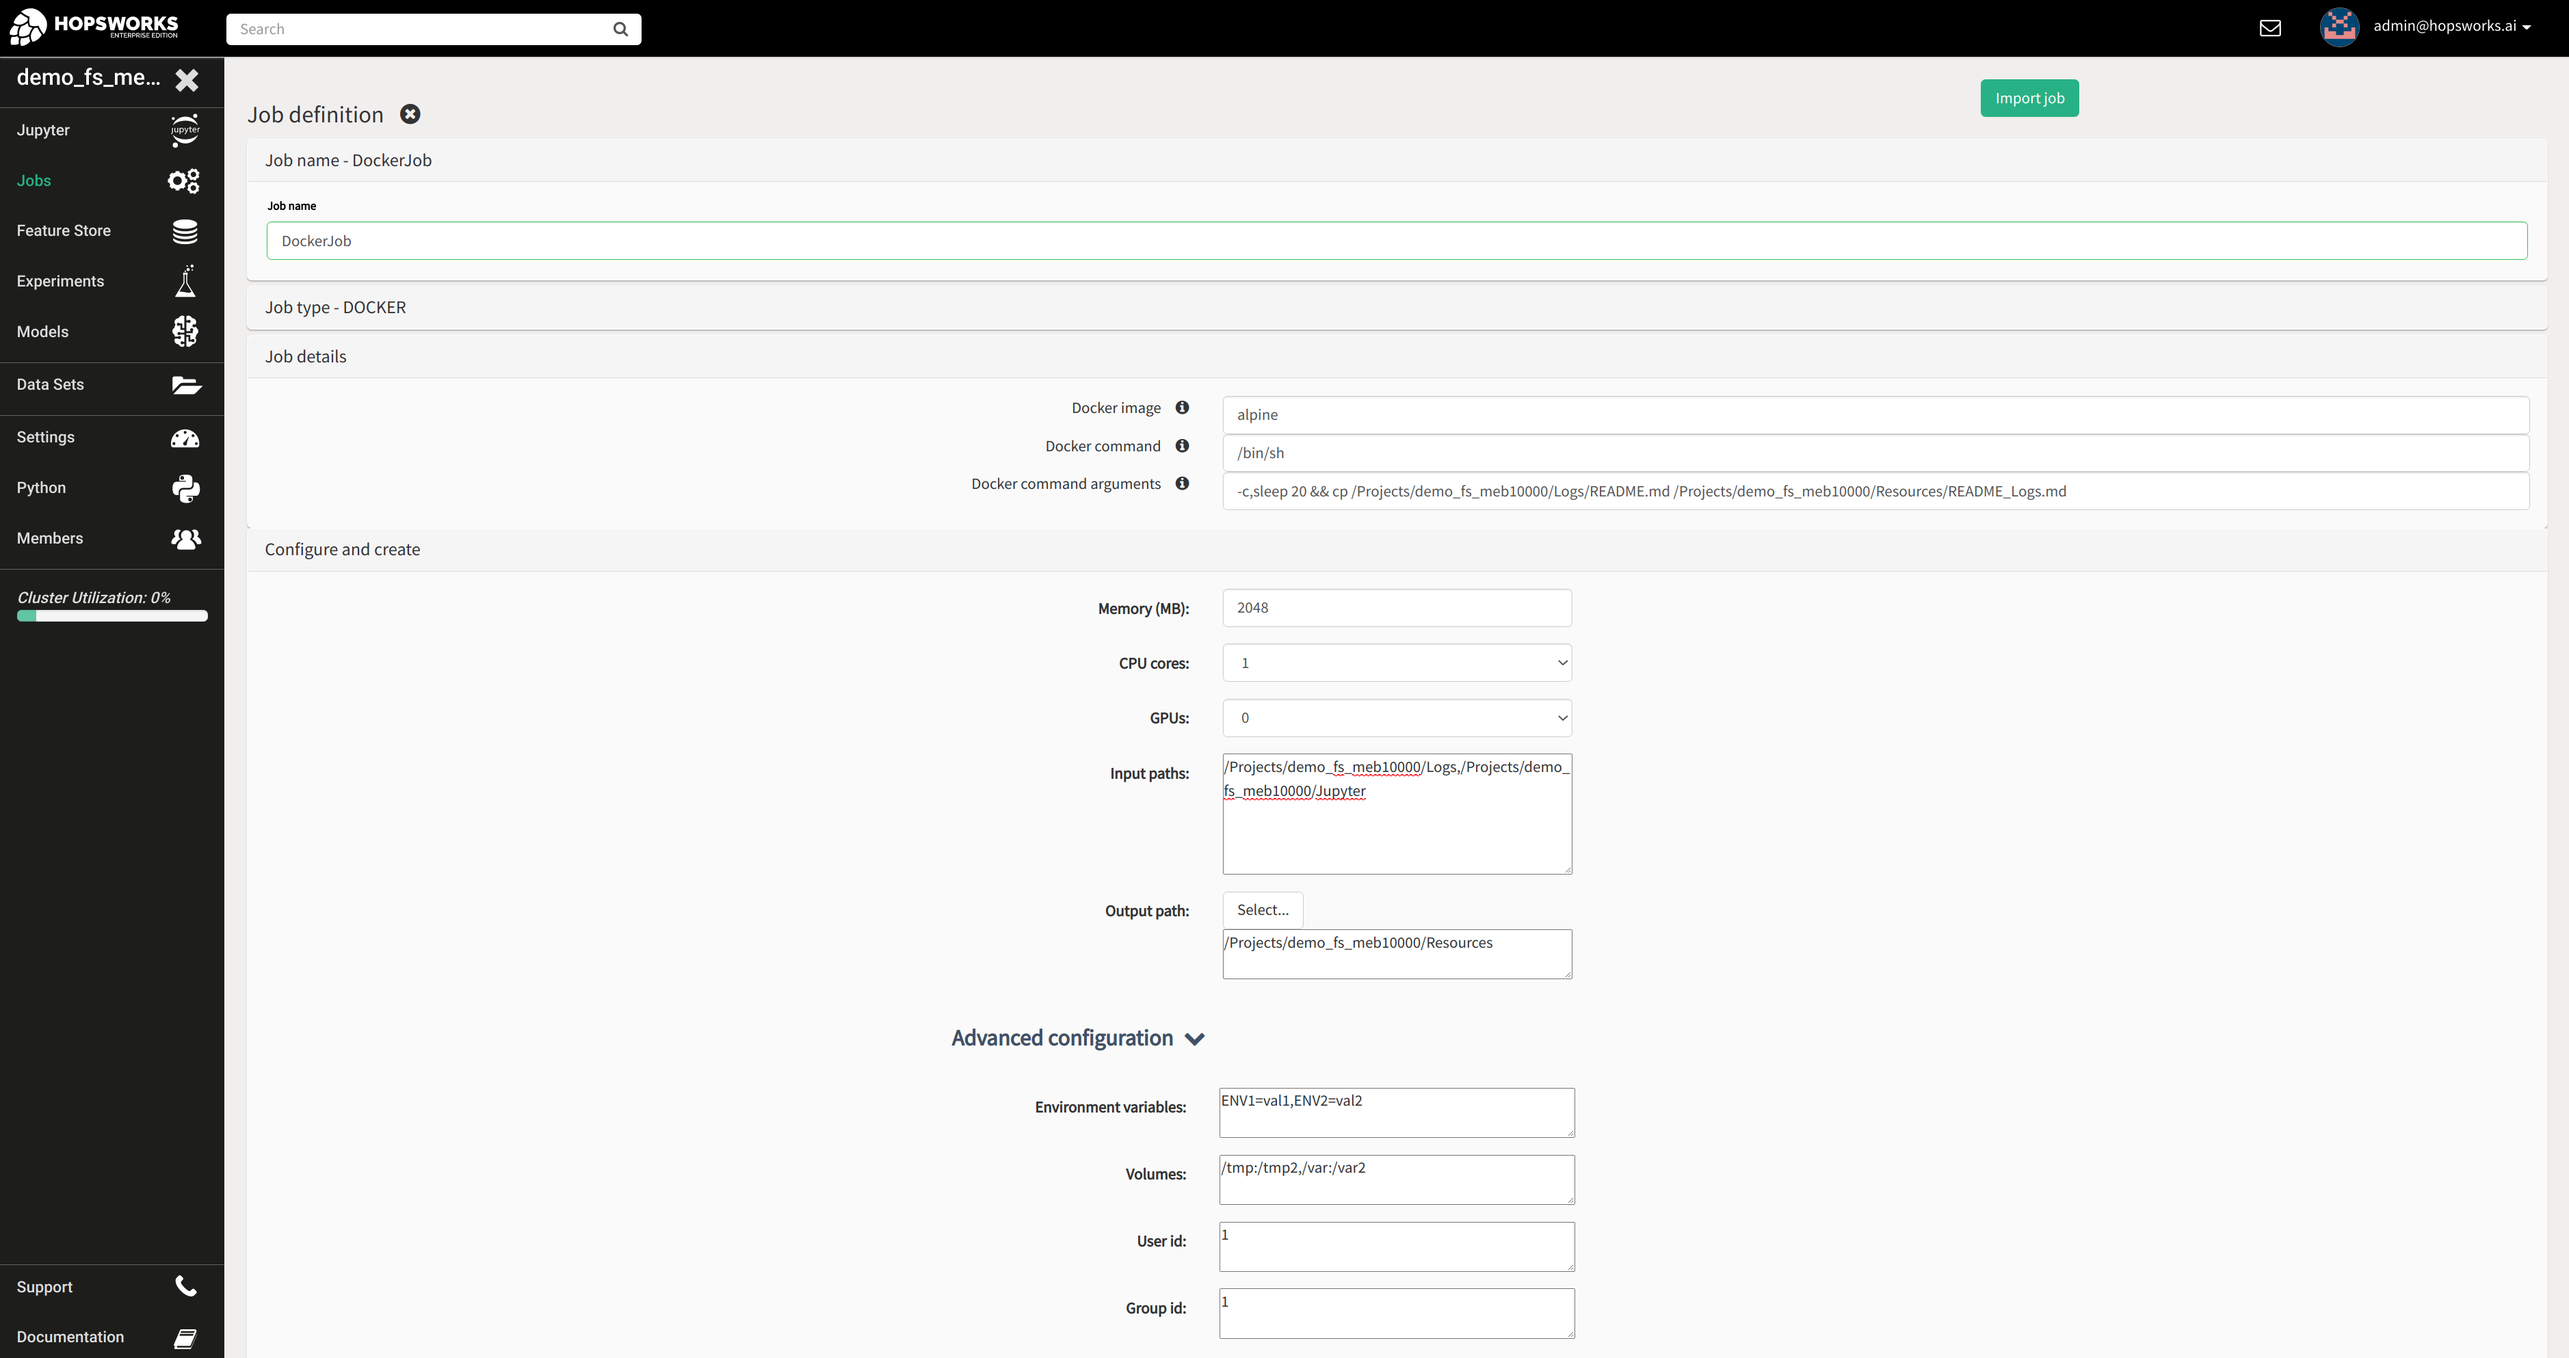
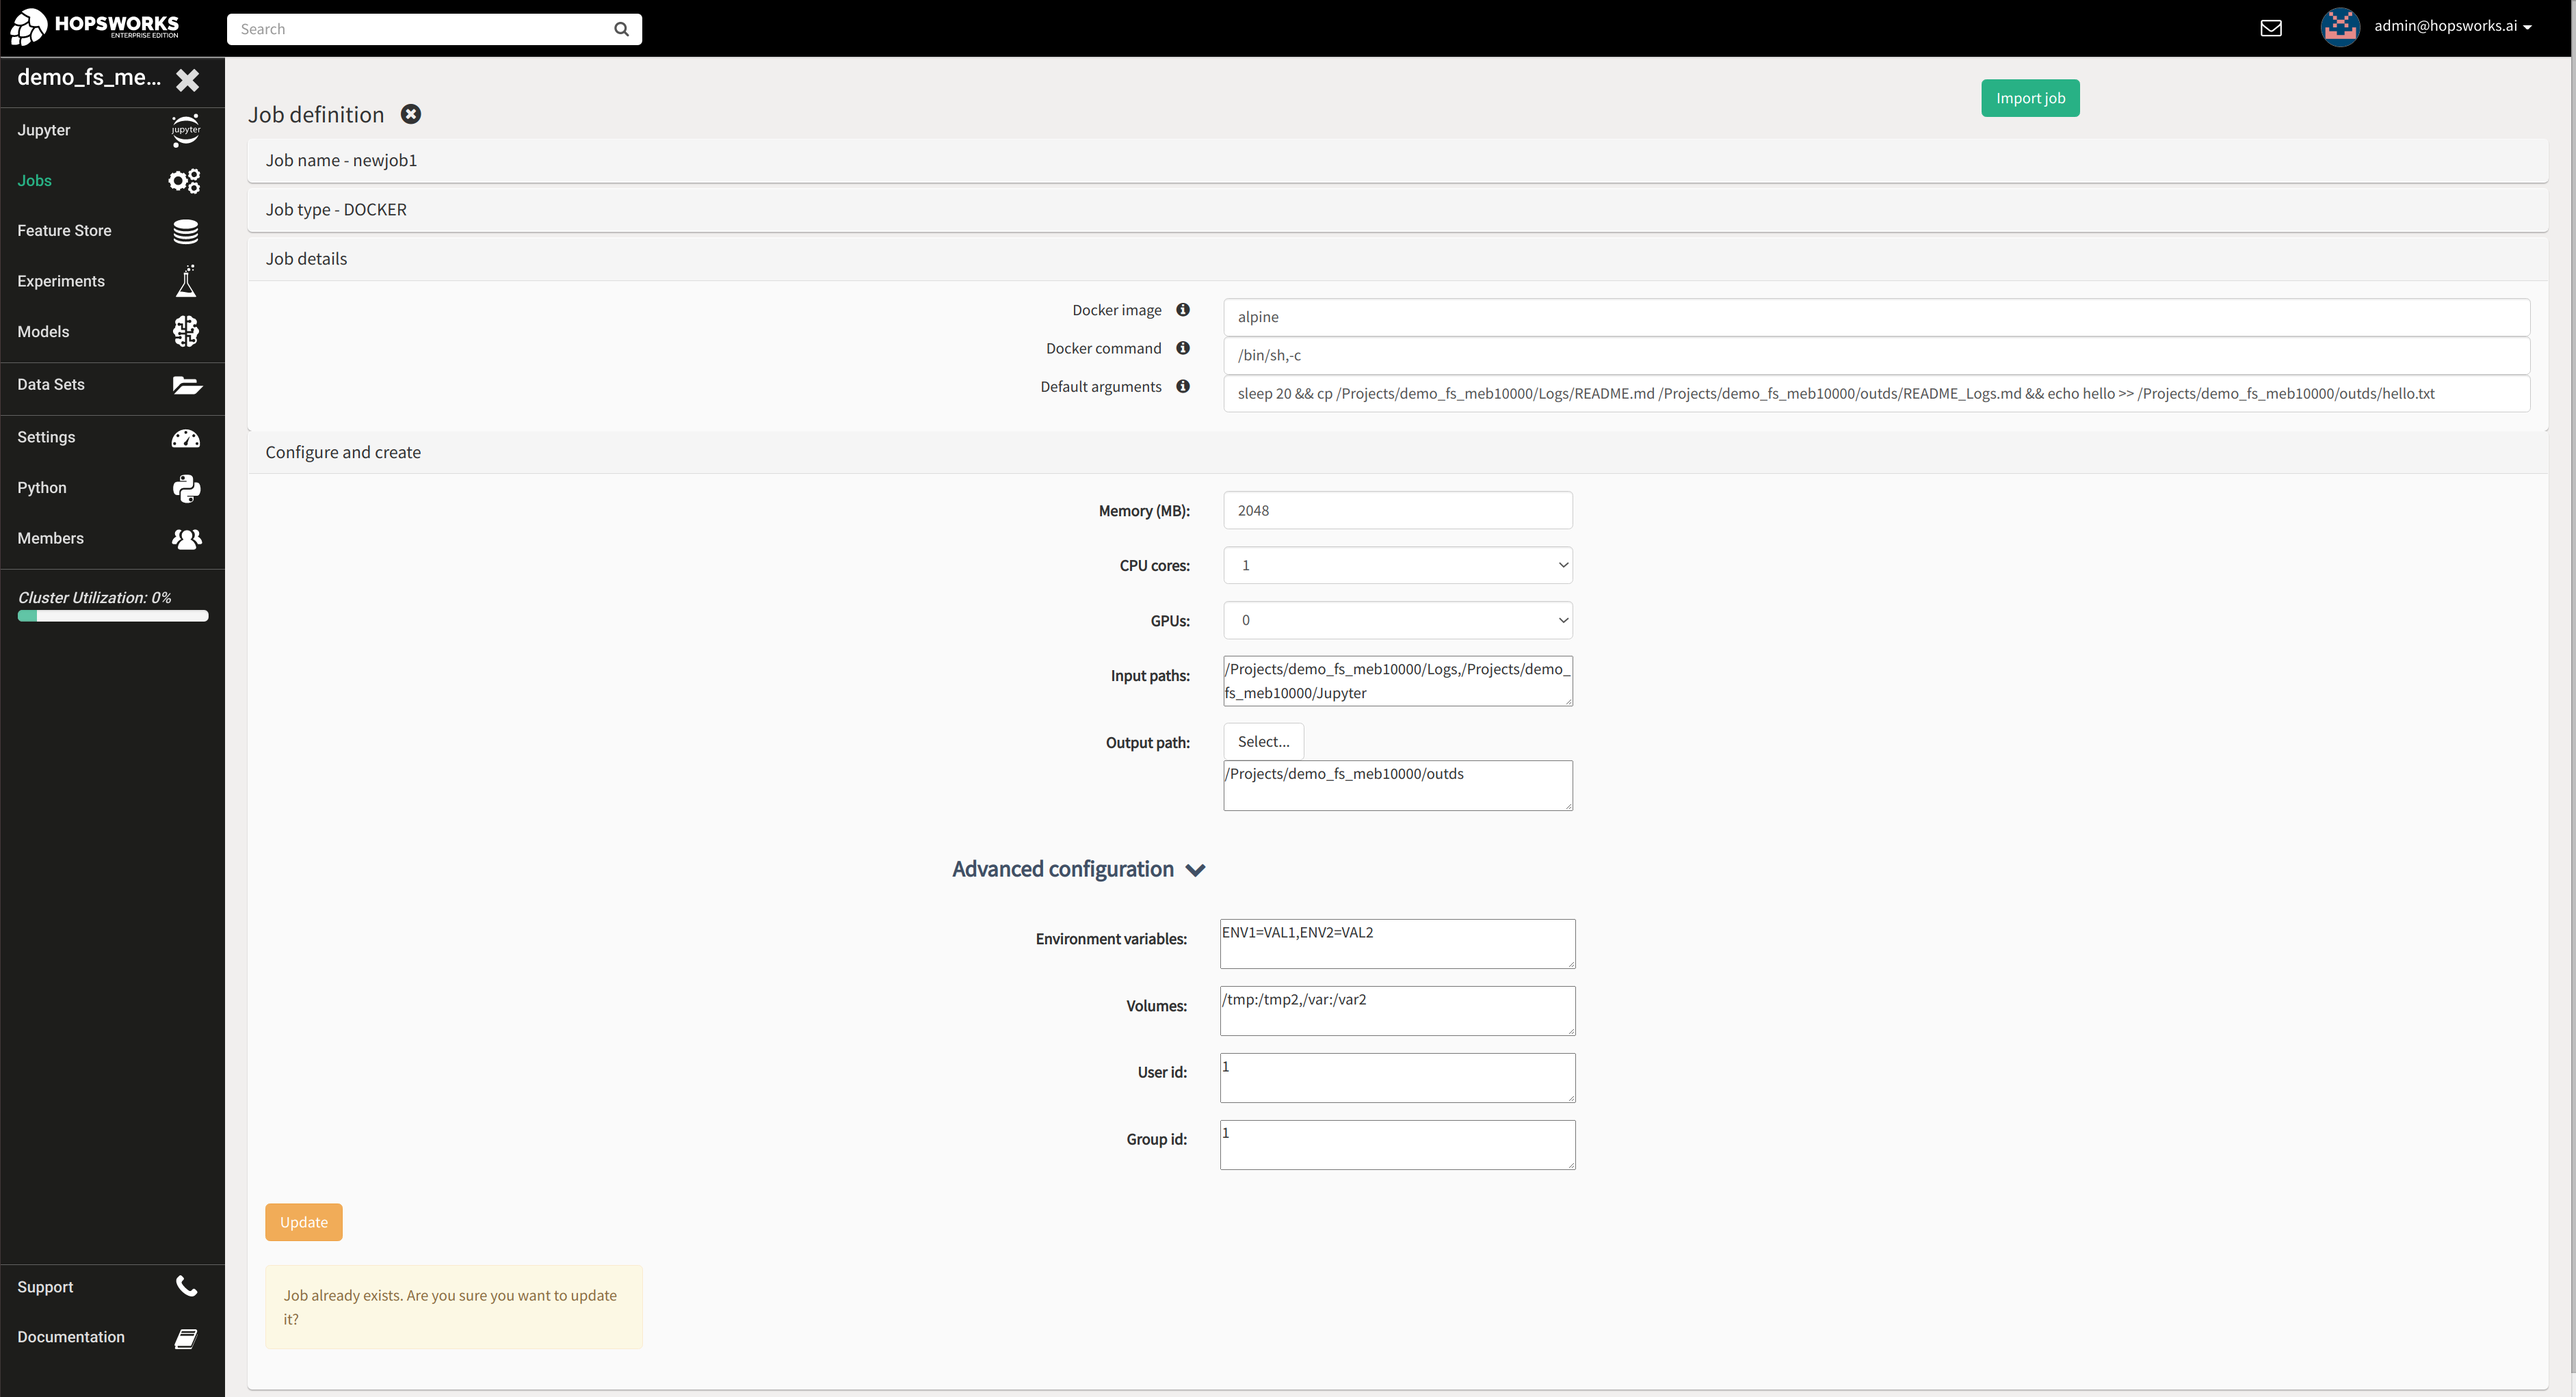
[HOPSWORKS-2559] Docker job input paths.

diff --git a/docs/user_guide/hopsworks/jobs.rst b/docs/user_guide/hopsworks/jobs.rst
@@ -154,9 +154,9 @@ running only Python, Spark/PySpark and Flink programs, but can now utilize the H
 As seen the screenshot below, users can set the following Docker job specific properties (advanced properties are optional):
 
 - Docker image: The location of the Docker image. Currently only publicly accessible docker registries are supported.
-- Docker command: The command to run the Docker container with
-- Docker command arguments: Comma-separated list of input arguments of the Docker command
-- Input paths: Comma-separated list of datasets or directories to be made available to the docker container. Data is copied asynchronously in the container, it is up  to the application to wait until all data copy is completed.
+- Docker command: Comma-separated list of commands to run the docker image with.
+- Default arguments: Optional input arguments to be provided to the docker container.
+- Input paths: Comma-separated list of datasets or directories to be made available to the docker container. Data is copied asynchronously in the container, it is up to the application to wait until all data copy is completed. In the example screenshot below, the application sleeps for 20 seconds before using the data.
 - Output path: The location in Hopsworks datasets where the output of the Job will be persisted, if the programs running inside the container redirect their output
   to the same container-local path. For example, if the output path is set to `/Projects/myproject/Resources` and the a container runs the command `echo "hello" >> /Projects/myproject/Resources/hello.txt`,
   then the Hopsworks job upon job completion will copy the entire content of the `/Projects/myproject/Resources` from the docker container to the corresponding path with the same name under Datasets.
